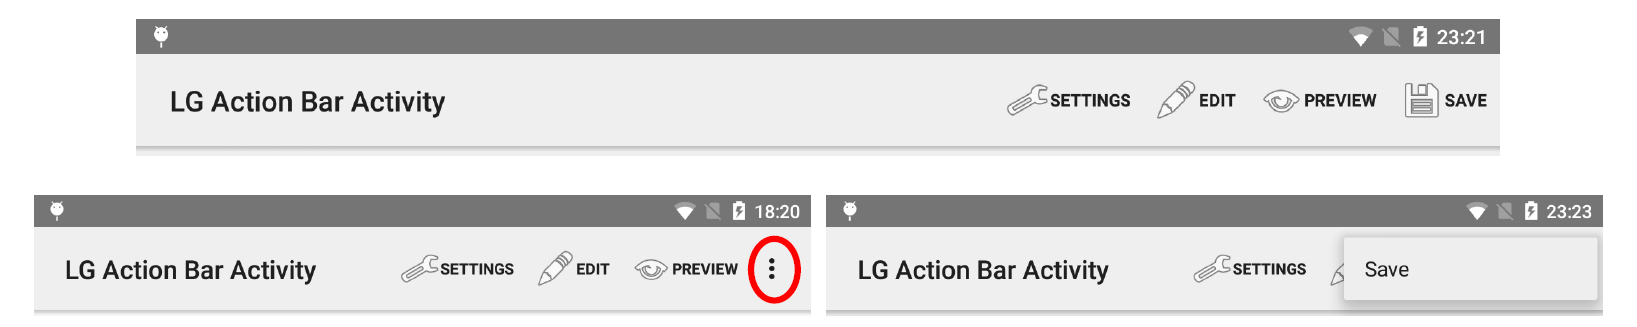
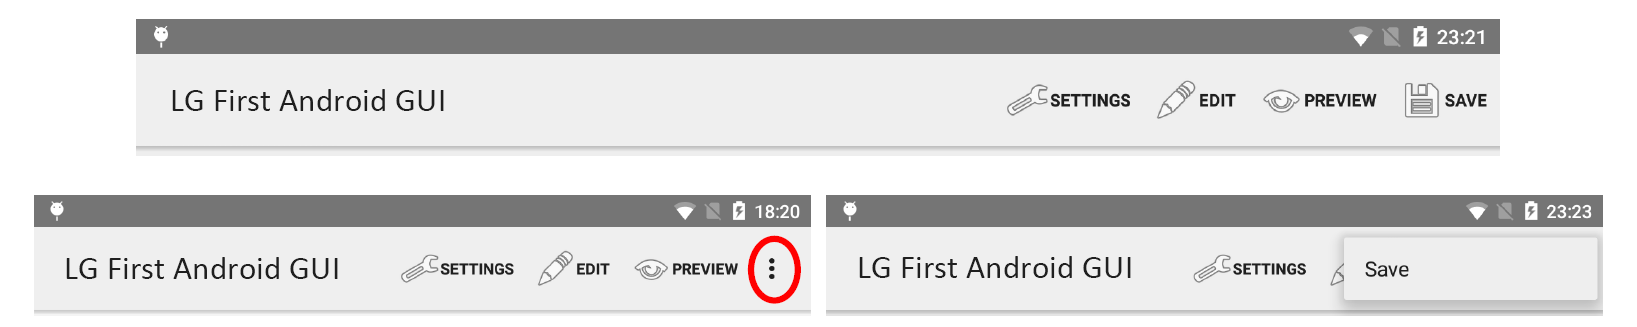
スクリーンショットのタイトルバー名修正

Changed region(s): [[0.0935, 0.2752, 0.2804, 0.367], [0.5296, 0.7645, 0.6854, 0.8563], [0.0312, 0.7951, 0.2181, 0.8563]]

diff --git a/android/ex3rd.html b/android/ex3rd.html
@@ -17,8 +17,9 @@
     <h1>第3回 Get Input from the User / ユーザーから入力を取得する</h1>
   </div>
   <p style="text-align: right;">
-    最終更新日：2023年05月09日
+    最終更新日：2024年04月16日
   </p>
+  <p><a href="index.html">ホームへ戻る</a></p>
   <div class="contents">
     <h3>PREPARATION / 準備</h3>
     <p> 第2回のプロジェクト、"<strong>LG Action Bar Activity</strong>" 、を続けて使用する。</p>

diff --git a/android/ex2nd.html b/android/ex2nd.html
@@ -18,7 +18,7 @@
                 <h1>第2回： Android GUI</h1>
             </div>
             <p style="text-align: right;">
-              最終更新日：2024年3月16日
+              最終更新日：2024年4月10日
             </p>
           <p><a href="index.html">ホームへ戻る</a></p>
 
